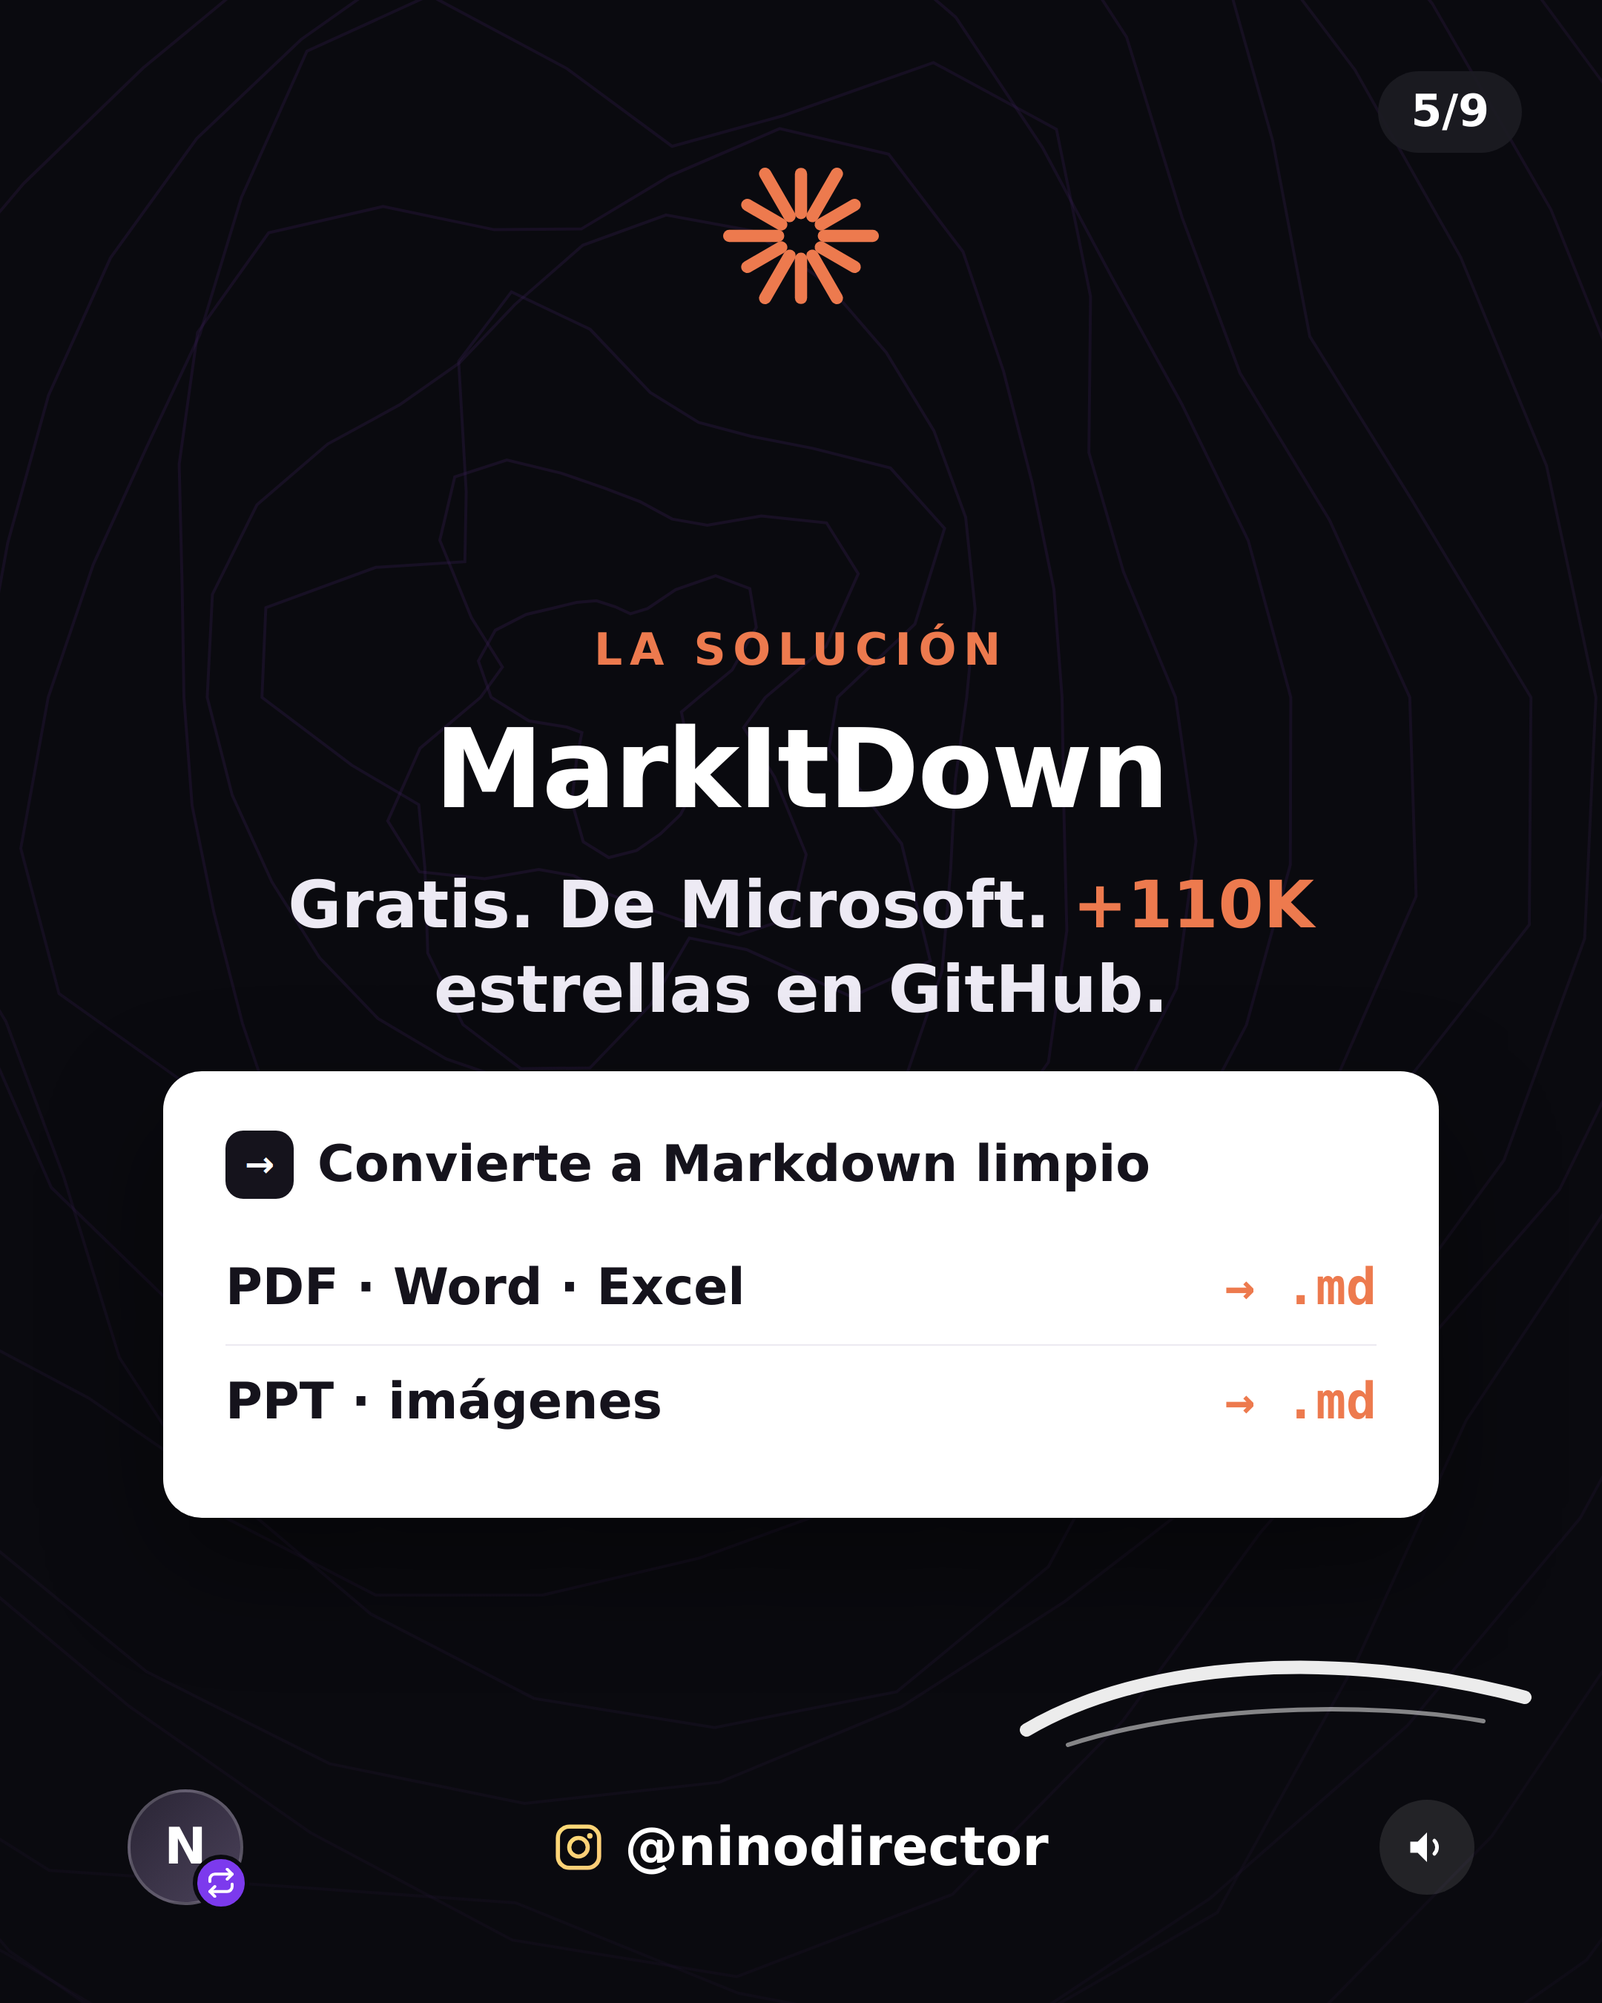
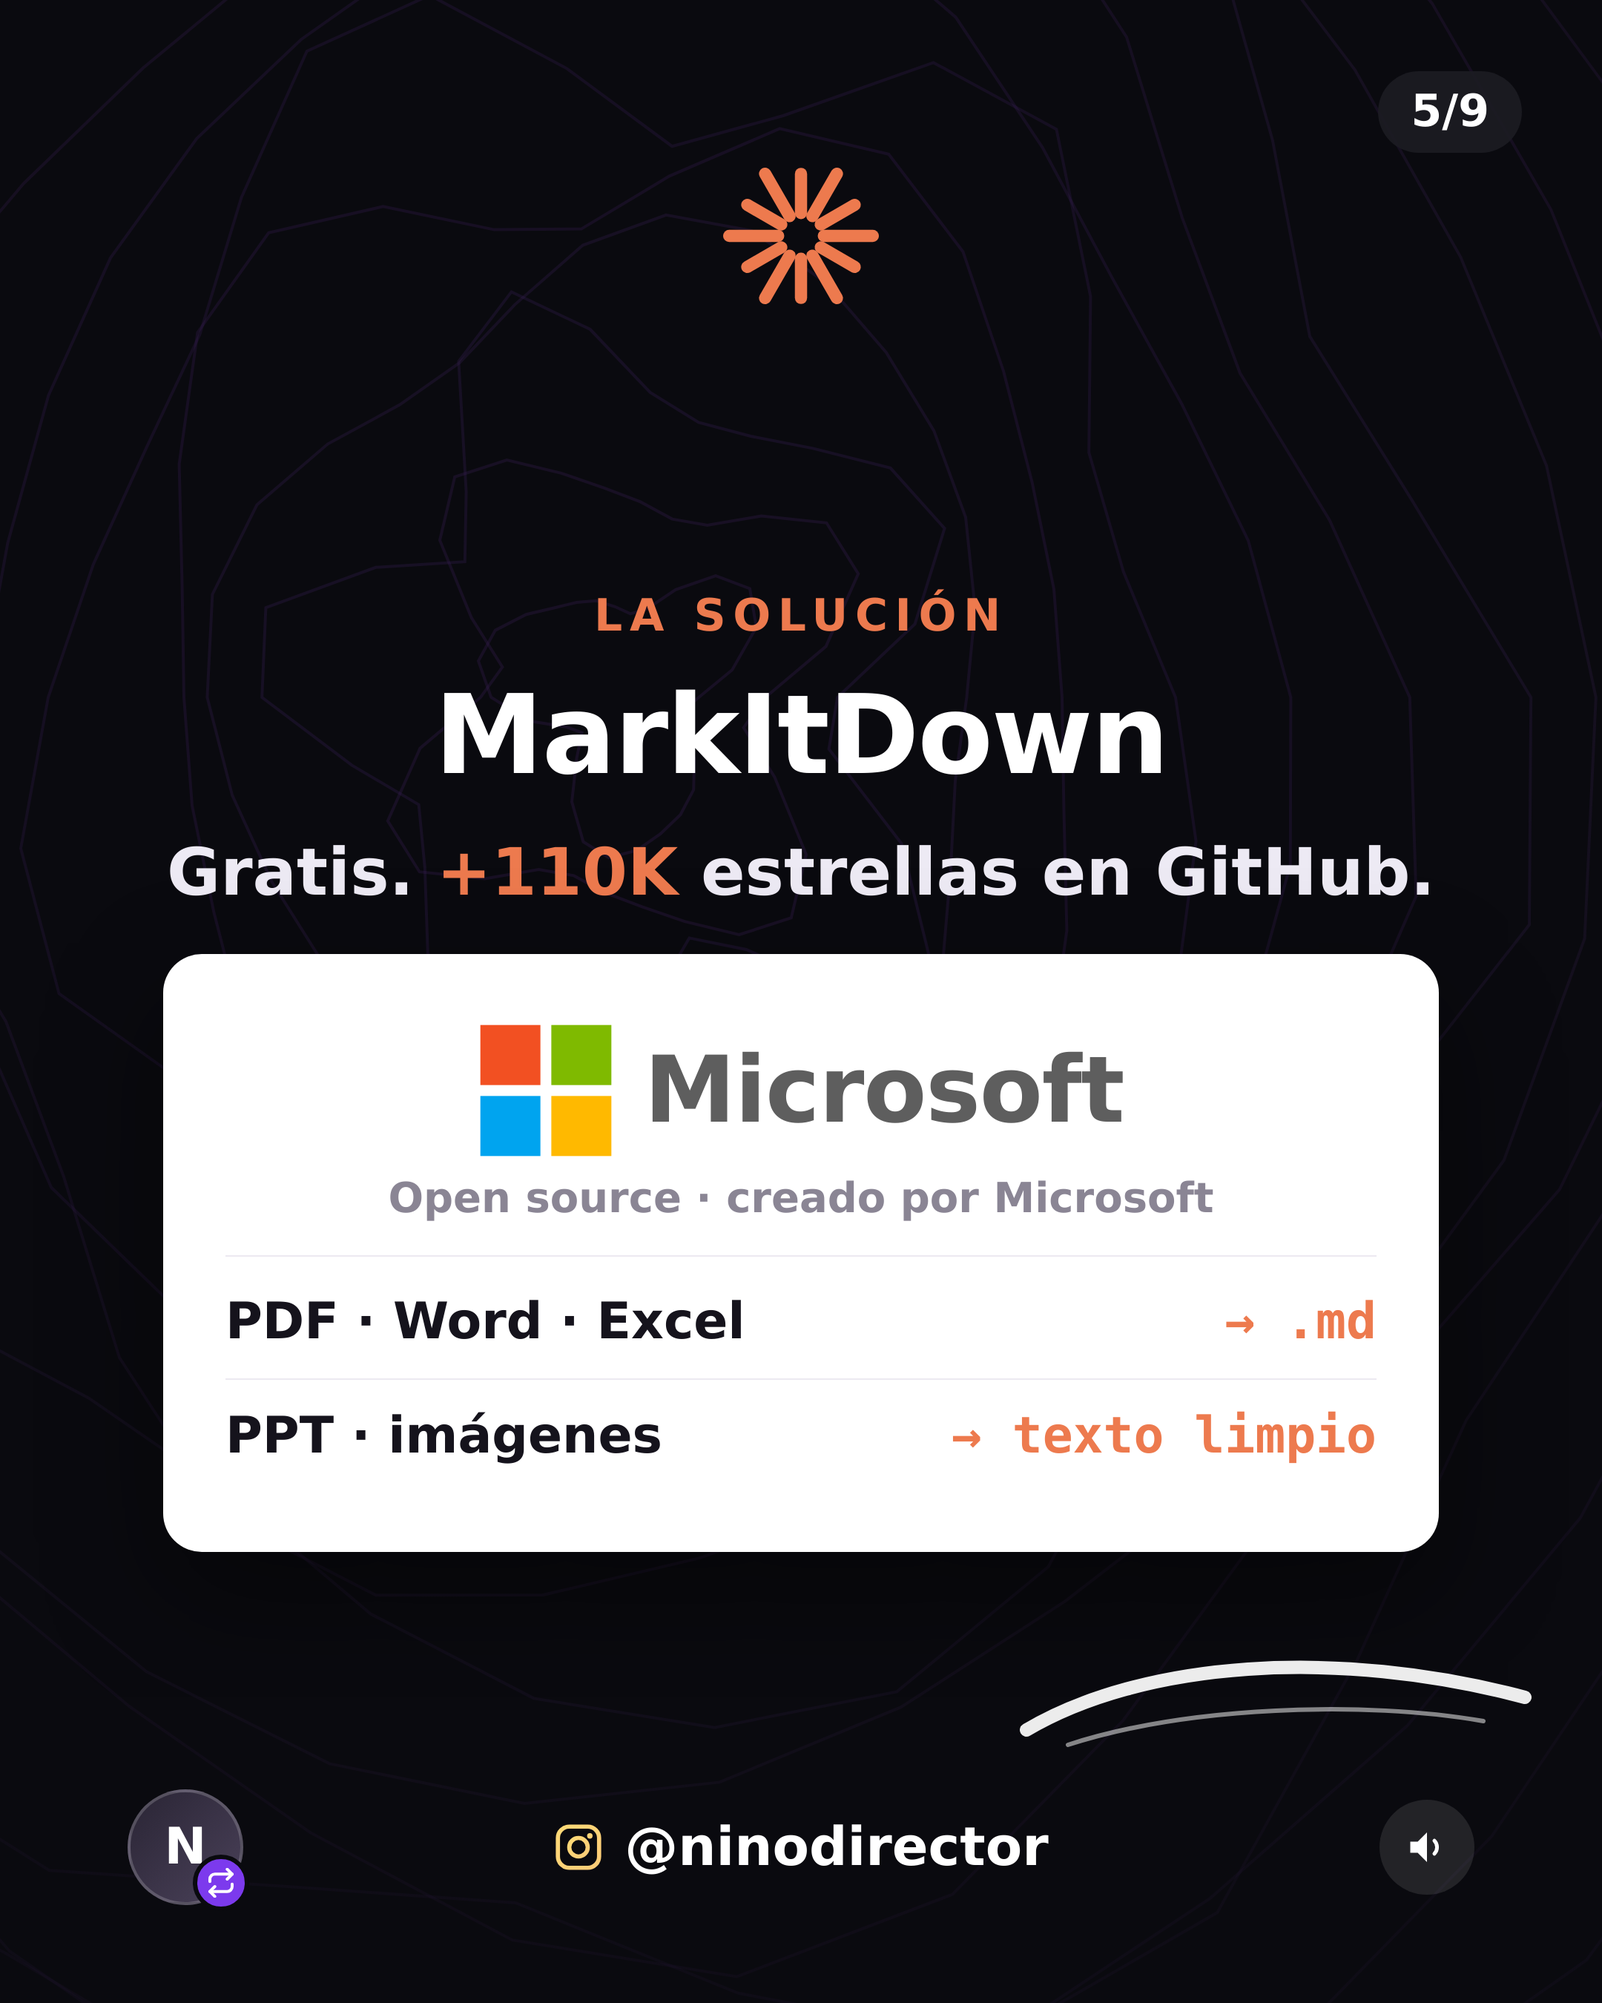
Add Microsoft branding to MARKIT slide 5 credibility card
https://claude.ai/code/session_017WajXgh6YNk1dNWK5wj6FU

Changed region(s): [[0.0931, 0.28, 0.8995, 0.7778]]

diff --git a/carousels/markit/slide-05.html b/carousels/markit/slide-05.html
@@ -34,6 +34,9 @@
   .card{background:#fff;color:#15131C;border-radius:26px;padding:40px 42px;width:100%;max-width:860px;box-shadow:0 30px 80px rgba(0,0,0,.45);text-align:left}
   .card .ctitle{font-weight:800;font-size:34px;margin-bottom:22px;display:flex;align-items:center;gap:16px}
   .card .badge{background:#15131C;color:#fff;font-weight:800;font-size:24px;width:46px;height:46px;border-radius:12px;display:flex;align-items:center;justify-content:center}
+  .mslogo{display:flex;align-items:center;justify-content:center;gap:20px;padding:6px 0 10px}
+  .mslogo span{font-weight:600;font-size:62px;color:#5E5E5E;letter-spacing:-.01em}
+  .mssub{text-align:center;font-weight:700;font-size:28px;color:#8A8594;padding-bottom:22px;border-bottom:1px solid #ECE9F1;margin-bottom:6px}
   .row{display:flex;justify-content:space-between;align-items:center;font-weight:700;font-size:34px;padding:18px 0;border-bottom:1px solid #ECE9F1}
   .row:last-child{border-bottom:none}
   .row .num{font-family:'JetBrains Mono',monospace;color:var(--accent);font-weight:700}
@@ -66,12 +69,21 @@
         
         <div class="eyebrow">La solución</div>
         <h2 class="title">MarkItDown</h2>
-        <p class="bodytext">Gratis. De Microsoft. <span class="hl">+110K</span> estrellas en GitHub.</p>
+        <p class="bodytext">Gratis. <span class="hl">+110K</span> estrellas en GitHub.</p>
         
         <div class="card">
-          <div class="ctitle"><span class="badge">→</span> Convierte a Markdown limpio</div>
+          <div class="mslogo">
+    <svg width="92" height="92" viewBox="0 0 100 100" xmlns="http://www.w3.org/2000/svg">
+      <rect x="2" y="2" width="44" height="44" fill="#F25022"/>
+      <rect x="54" y="2" width="44" height="44" fill="#7FBA00"/>
+      <rect x="2" y="54" width="44" height="44" fill="#00A4EF"/>
+      <rect x="54" y="54" width="44" height="44" fill="#FFB900"/>
+    </svg>
+    <span>Microsoft</span>
+  </div>
+          <div class="mssub">Open source · creado por Microsoft</div>
           <div class="row"><span>PDF · Word · Excel</span><span class="num">→ .md</span></div>
-          <div class="row"><span>PPT · imágenes</span><span class="num">→ .md</span></div>
+          <div class="row"><span>PPT · imágenes</span><span class="num">→ texto limpio</span></div>
         </div>
       </div>
     <svg class="swoosh" width="360" height="120" viewBox="0 0 360 120" xmlns="http://www.w3.org/2000/svg">

diff --git a/carousels/legal/slide-01.html b/carousels/legal/slide-01.html
@@ -34,6 +34,9 @@
   .card{background:#fff;color:#15131C;border-radius:26px;padding:40px 42px;width:100%;max-width:860px;box-shadow:0 30px 80px rgba(0,0,0,.45);text-align:left}
   .card .ctitle{font-weight:800;font-size:34px;margin-bottom:22px;display:flex;align-items:center;gap:16px}
   .card .badge{background:#15131C;color:#fff;font-weight:800;font-size:24px;width:46px;height:46px;border-radius:12px;display:flex;align-items:center;justify-content:center}
+  .mslogo{display:flex;align-items:center;justify-content:center;gap:20px;padding:6px 0 10px}
+  .mslogo span{font-weight:600;font-size:62px;color:#5E5E5E;letter-spacing:-.01em}
+  .mssub{text-align:center;font-weight:700;font-size:28px;color:#8A8594;padding-bottom:22px;border-bottom:1px solid #ECE9F1;margin-bottom:6px}
   .row{display:flex;justify-content:space-between;align-items:center;font-weight:700;font-size:34px;padding:18px 0;border-bottom:1px solid #ECE9F1}
   .row:last-child{border-bottom:none}
   .row .num{font-family:'JetBrains Mono',monospace;color:var(--accent);font-weight:700}

diff --git a/carousels/legal/slide-02.html b/carousels/legal/slide-02.html
@@ -34,6 +34,9 @@
   .card{background:#fff;color:#15131C;border-radius:26px;padding:40px 42px;width:100%;max-width:860px;box-shadow:0 30px 80px rgba(0,0,0,.45);text-align:left}
   .card .ctitle{font-weight:800;font-size:34px;margin-bottom:22px;display:flex;align-items:center;gap:16px}
   .card .badge{background:#15131C;color:#fff;font-weight:800;font-size:24px;width:46px;height:46px;border-radius:12px;display:flex;align-items:center;justify-content:center}
+  .mslogo{display:flex;align-items:center;justify-content:center;gap:20px;padding:6px 0 10px}
+  .mslogo span{font-weight:600;font-size:62px;color:#5E5E5E;letter-spacing:-.01em}
+  .mssub{text-align:center;font-weight:700;font-size:28px;color:#8A8594;padding-bottom:22px;border-bottom:1px solid #ECE9F1;margin-bottom:6px}
   .row{display:flex;justify-content:space-between;align-items:center;font-weight:700;font-size:34px;padding:18px 0;border-bottom:1px solid #ECE9F1}
   .row:last-child{border-bottom:none}
   .row .num{font-family:'JetBrains Mono',monospace;color:var(--accent);font-weight:700}

diff --git a/carousels/legal/slide-03.html b/carousels/legal/slide-03.html
@@ -34,6 +34,9 @@
   .card{background:#fff;color:#15131C;border-radius:26px;padding:40px 42px;width:100%;max-width:860px;box-shadow:0 30px 80px rgba(0,0,0,.45);text-align:left}
   .card .ctitle{font-weight:800;font-size:34px;margin-bottom:22px;display:flex;align-items:center;gap:16px}
   .card .badge{background:#15131C;color:#fff;font-weight:800;font-size:24px;width:46px;height:46px;border-radius:12px;display:flex;align-items:center;justify-content:center}
+  .mslogo{display:flex;align-items:center;justify-content:center;gap:20px;padding:6px 0 10px}
+  .mslogo span{font-weight:600;font-size:62px;color:#5E5E5E;letter-spacing:-.01em}
+  .mssub{text-align:center;font-weight:700;font-size:28px;color:#8A8594;padding-bottom:22px;border-bottom:1px solid #ECE9F1;margin-bottom:6px}
   .row{display:flex;justify-content:space-between;align-items:center;font-weight:700;font-size:34px;padding:18px 0;border-bottom:1px solid #ECE9F1}
   .row:last-child{border-bottom:none}
   .row .num{font-family:'JetBrains Mono',monospace;color:var(--accent);font-weight:700}

diff --git a/carousels/legal/slide-04.html b/carousels/legal/slide-04.html
@@ -34,6 +34,9 @@
   .card{background:#fff;color:#15131C;border-radius:26px;padding:40px 42px;width:100%;max-width:860px;box-shadow:0 30px 80px rgba(0,0,0,.45);text-align:left}
   .card .ctitle{font-weight:800;font-size:34px;margin-bottom:22px;display:flex;align-items:center;gap:16px}
   .card .badge{background:#15131C;color:#fff;font-weight:800;font-size:24px;width:46px;height:46px;border-radius:12px;display:flex;align-items:center;justify-content:center}
+  .mslogo{display:flex;align-items:center;justify-content:center;gap:20px;padding:6px 0 10px}
+  .mslogo span{font-weight:600;font-size:62px;color:#5E5E5E;letter-spacing:-.01em}
+  .mssub{text-align:center;font-weight:700;font-size:28px;color:#8A8594;padding-bottom:22px;border-bottom:1px solid #ECE9F1;margin-bottom:6px}
   .row{display:flex;justify-content:space-between;align-items:center;font-weight:700;font-size:34px;padding:18px 0;border-bottom:1px solid #ECE9F1}
   .row:last-child{border-bottom:none}
   .row .num{font-family:'JetBrains Mono',monospace;color:var(--accent);font-weight:700}

diff --git a/carousels/legal/slide-05.html b/carousels/legal/slide-05.html
@@ -34,6 +34,9 @@
   .card{background:#fff;color:#15131C;border-radius:26px;padding:40px 42px;width:100%;max-width:860px;box-shadow:0 30px 80px rgba(0,0,0,.45);text-align:left}
   .card .ctitle{font-weight:800;font-size:34px;margin-bottom:22px;display:flex;align-items:center;gap:16px}
   .card .badge{background:#15131C;color:#fff;font-weight:800;font-size:24px;width:46px;height:46px;border-radius:12px;display:flex;align-items:center;justify-content:center}
+  .mslogo{display:flex;align-items:center;justify-content:center;gap:20px;padding:6px 0 10px}
+  .mslogo span{font-weight:600;font-size:62px;color:#5E5E5E;letter-spacing:-.01em}
+  .mssub{text-align:center;font-weight:700;font-size:28px;color:#8A8594;padding-bottom:22px;border-bottom:1px solid #ECE9F1;margin-bottom:6px}
   .row{display:flex;justify-content:space-between;align-items:center;font-weight:700;font-size:34px;padding:18px 0;border-bottom:1px solid #ECE9F1}
   .row:last-child{border-bottom:none}
   .row .num{font-family:'JetBrains Mono',monospace;color:var(--accent);font-weight:700}

diff --git a/carousels/legal/slide-06.html b/carousels/legal/slide-06.html
@@ -34,6 +34,9 @@
   .card{background:#fff;color:#15131C;border-radius:26px;padding:40px 42px;width:100%;max-width:860px;box-shadow:0 30px 80px rgba(0,0,0,.45);text-align:left}
   .card .ctitle{font-weight:800;font-size:34px;margin-bottom:22px;display:flex;align-items:center;gap:16px}
   .card .badge{background:#15131C;color:#fff;font-weight:800;font-size:24px;width:46px;height:46px;border-radius:12px;display:flex;align-items:center;justify-content:center}
+  .mslogo{display:flex;align-items:center;justify-content:center;gap:20px;padding:6px 0 10px}
+  .mslogo span{font-weight:600;font-size:62px;color:#5E5E5E;letter-spacing:-.01em}
+  .mssub{text-align:center;font-weight:700;font-size:28px;color:#8A8594;padding-bottom:22px;border-bottom:1px solid #ECE9F1;margin-bottom:6px}
   .row{display:flex;justify-content:space-between;align-items:center;font-weight:700;font-size:34px;padding:18px 0;border-bottom:1px solid #ECE9F1}
   .row:last-child{border-bottom:none}
   .row .num{font-family:'JetBrains Mono',monospace;color:var(--accent);font-weight:700}

diff --git a/carousels/legal/slide-07.html b/carousels/legal/slide-07.html
@@ -34,6 +34,9 @@
   .card{background:#fff;color:#15131C;border-radius:26px;padding:40px 42px;width:100%;max-width:860px;box-shadow:0 30px 80px rgba(0,0,0,.45);text-align:left}
   .card .ctitle{font-weight:800;font-size:34px;margin-bottom:22px;display:flex;align-items:center;gap:16px}
   .card .badge{background:#15131C;color:#fff;font-weight:800;font-size:24px;width:46px;height:46px;border-radius:12px;display:flex;align-items:center;justify-content:center}
+  .mslogo{display:flex;align-items:center;justify-content:center;gap:20px;padding:6px 0 10px}
+  .mslogo span{font-weight:600;font-size:62px;color:#5E5E5E;letter-spacing:-.01em}
+  .mssub{text-align:center;font-weight:700;font-size:28px;color:#8A8594;padding-bottom:22px;border-bottom:1px solid #ECE9F1;margin-bottom:6px}
   .row{display:flex;justify-content:space-between;align-items:center;font-weight:700;font-size:34px;padding:18px 0;border-bottom:1px solid #ECE9F1}
   .row:last-child{border-bottom:none}
   .row .num{font-family:'JetBrains Mono',monospace;color:var(--accent);font-weight:700}

diff --git a/carousels/legal/slide-08.html b/carousels/legal/slide-08.html
@@ -34,6 +34,9 @@
   .card{background:#fff;color:#15131C;border-radius:26px;padding:40px 42px;width:100%;max-width:860px;box-shadow:0 30px 80px rgba(0,0,0,.45);text-align:left}
   .card .ctitle{font-weight:800;font-size:34px;margin-bottom:22px;display:flex;align-items:center;gap:16px}
   .card .badge{background:#15131C;color:#fff;font-weight:800;font-size:24px;width:46px;height:46px;border-radius:12px;display:flex;align-items:center;justify-content:center}
+  .mslogo{display:flex;align-items:center;justify-content:center;gap:20px;padding:6px 0 10px}
+  .mslogo span{font-weight:600;font-size:62px;color:#5E5E5E;letter-spacing:-.01em}
+  .mssub{text-align:center;font-weight:700;font-size:28px;color:#8A8594;padding-bottom:22px;border-bottom:1px solid #ECE9F1;margin-bottom:6px}
   .row{display:flex;justify-content:space-between;align-items:center;font-weight:700;font-size:34px;padding:18px 0;border-bottom:1px solid #ECE9F1}
   .row:last-child{border-bottom:none}
   .row .num{font-family:'JetBrains Mono',monospace;color:var(--accent);font-weight:700}

diff --git a/carousels/markit/slide-01.html b/carousels/markit/slide-01.html
@@ -34,6 +34,9 @@
   .card{background:#fff;color:#15131C;border-radius:26px;padding:40px 42px;width:100%;max-width:860px;box-shadow:0 30px 80px rgba(0,0,0,.45);text-align:left}
   .card .ctitle{font-weight:800;font-size:34px;margin-bottom:22px;display:flex;align-items:center;gap:16px}
   .card .badge{background:#15131C;color:#fff;font-weight:800;font-size:24px;width:46px;height:46px;border-radius:12px;display:flex;align-items:center;justify-content:center}
+  .mslogo{display:flex;align-items:center;justify-content:center;gap:20px;padding:6px 0 10px}
+  .mslogo span{font-weight:600;font-size:62px;color:#5E5E5E;letter-spacing:-.01em}
+  .mssub{text-align:center;font-weight:700;font-size:28px;color:#8A8594;padding-bottom:22px;border-bottom:1px solid #ECE9F1;margin-bottom:6px}
   .row{display:flex;justify-content:space-between;align-items:center;font-weight:700;font-size:34px;padding:18px 0;border-bottom:1px solid #ECE9F1}
   .row:last-child{border-bottom:none}
   .row .num{font-family:'JetBrains Mono',monospace;color:var(--accent);font-weight:700}

diff --git a/carousels/markit/slide-02.html b/carousels/markit/slide-02.html
@@ -34,6 +34,9 @@
   .card{background:#fff;color:#15131C;border-radius:26px;padding:40px 42px;width:100%;max-width:860px;box-shadow:0 30px 80px rgba(0,0,0,.45);text-align:left}
   .card .ctitle{font-weight:800;font-size:34px;margin-bottom:22px;display:flex;align-items:center;gap:16px}
   .card .badge{background:#15131C;color:#fff;font-weight:800;font-size:24px;width:46px;height:46px;border-radius:12px;display:flex;align-items:center;justify-content:center}
+  .mslogo{display:flex;align-items:center;justify-content:center;gap:20px;padding:6px 0 10px}
+  .mslogo span{font-weight:600;font-size:62px;color:#5E5E5E;letter-spacing:-.01em}
+  .mssub{text-align:center;font-weight:700;font-size:28px;color:#8A8594;padding-bottom:22px;border-bottom:1px solid #ECE9F1;margin-bottom:6px}
   .row{display:flex;justify-content:space-between;align-items:center;font-weight:700;font-size:34px;padding:18px 0;border-bottom:1px solid #ECE9F1}
   .row:last-child{border-bottom:none}
   .row .num{font-family:'JetBrains Mono',monospace;color:var(--accent);font-weight:700}

diff --git a/carousels/markit/slide-03.html b/carousels/markit/slide-03.html
@@ -34,6 +34,9 @@
   .card{background:#fff;color:#15131C;border-radius:26px;padding:40px 42px;width:100%;max-width:860px;box-shadow:0 30px 80px rgba(0,0,0,.45);text-align:left}
   .card .ctitle{font-weight:800;font-size:34px;margin-bottom:22px;display:flex;align-items:center;gap:16px}
   .card .badge{background:#15131C;color:#fff;font-weight:800;font-size:24px;width:46px;height:46px;border-radius:12px;display:flex;align-items:center;justify-content:center}
+  .mslogo{display:flex;align-items:center;justify-content:center;gap:20px;padding:6px 0 10px}
+  .mslogo span{font-weight:600;font-size:62px;color:#5E5E5E;letter-spacing:-.01em}
+  .mssub{text-align:center;font-weight:700;font-size:28px;color:#8A8594;padding-bottom:22px;border-bottom:1px solid #ECE9F1;margin-bottom:6px}
   .row{display:flex;justify-content:space-between;align-items:center;font-weight:700;font-size:34px;padding:18px 0;border-bottom:1px solid #ECE9F1}
   .row:last-child{border-bottom:none}
   .row .num{font-family:'JetBrains Mono',monospace;color:var(--accent);font-weight:700}
